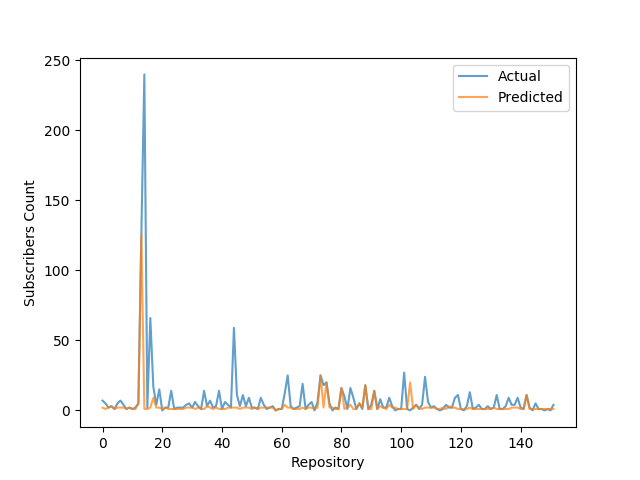
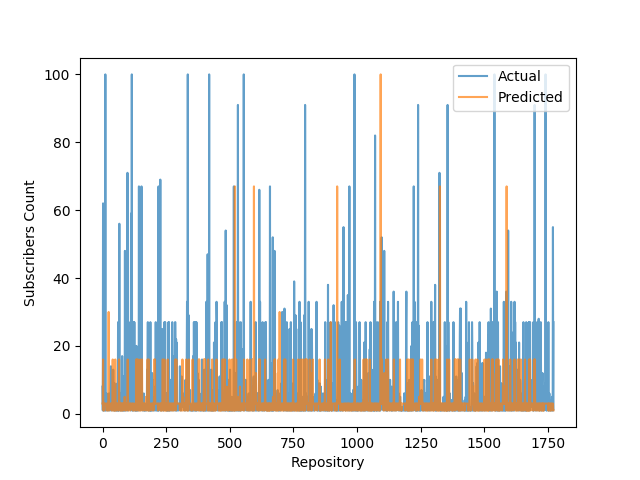
updated sql logic

diff --git a/log_regression.py b/log_regression.py
@@ -23,27 +23,33 @@ GIT_REPO_FIELDS = ['forks_count', 'stargazers_count', 'subscribers_count']
 # parse database rows/json into dictionaries,
 # TODO: add caching
 def get_dicts(cursor):
-    cursor.execute("SELECT `*` FROM `GetCommitStats` LIMIT 1000")
-    resultStat = cursor.fetchmany(1000)
+    sql = "SELECT repoUrl, repository, a.json as ajson, b.json as bjson, a.id\
+    FROM (SELECT * FROM GetRepository LIMIT 5000) a INNER JOIN (SELECT * FROM GetCommitStats LIMIT 5000) b\
+    ON b.repoUrl LIKE CONCAT('%', a.repository)\
+    WHERE b.json IS NOT NULL AND a.json IS NOT NULL\
+    LIMIT 10000"
+
+    cursor.execute(sql)
+    fetched = cursor.fetchmany(10000)
+    print len(fetched)
     statDict = {}
-    for r in resultStat:
-        d = json.loads(r['json'])[10]
-        statDict[r['repoUrl'].split('/')[-1]] = {key:d[key] for key in GIT_STAT_FIELDS if key in d}
+    for r in fetched:
+        da = json.loads(r['ajson'])
+        db = json.loads(r['bjson'])[10] if r and r['bjson'] else {}
+        astats = {key:da[key] for key in GIT_REPO_FIELDS if key in da}
+        bstats = {key:db[key] for key in GIT_STAT_FIELDS if key in db}
+        astats.update(bstats)
+        statDict[r['repoUrl']] = astats
 
-    cursor.execute("SELECT `*` FROM `GetRepository` LIMIT 1000")
-    resultRepo = cursor.fetchmany(1000)
-    repoDict = {}
-    for r in resultRepo:
-        d = json.loads(r['json'])
-        repoDict[r['repository']] = {key:d[key] for key in GIT_REPO_FIELDS if key in d}
+    print len(statDict)
 
-    return (statDict,repoDict)
+    return statDict
 
 # Create the training data/labels with respect to some field to predict
-def get_variables(y_var, statDict, repoDict):
+def get_variables(y_var, statDict):
     X, Y, Xv, Yv = [],[],[],[]
     for repo, fields in statDict.items()[:-100]:
-        if repo in repoDict:
+        if y_var in fields:
             row = []
             for i in GIT_STAT_FIELDS:
                 if i in fields:
@@ -51,9 +57,9 @@ def get_variables(y_var, statDict, repoDict):
                 else:
                     row += [0]
             X.append(row)
-            Y.append(repoDict[repo][y_var]) if y_var in repoDict[repo] else Y.append(0)
+            Y.append(min(100,fields[y_var]))
     for repo, fields in statDict.items()[-100:]:
-        if repo in repoDict:
+        if y_var in fields:
             row = []
             for i in GIT_STAT_FIELDS:
                 if i in fields:
@@ -61,19 +67,18 @@ def get_variables(y_var, statDict, repoDict):
                 else:
                     row += [0]
             Xv.append(row)
-            Yv.append(repoDict[repo][y_var]) if y_var in repoDict[repo] else Yv.append(0)
-    print(np.array(X).shape,np.array(Y).shape, np.array(Xv).shape, np.array(Yv).shape)
+            Yv.append(min(100,fields[y_var])) if y_var in fields else Yv.append(0)
     return (np.array(X),np.array(Y), np.array(Xv), np.array(Yv))
 
 if __name__ == "__main__":
     try:
         with connection.cursor() as cursor:
 
-            statDict,repoDict = get_dicts(cursor)
+            statDict = get_dicts(cursor)
 
-            X,Y,Xv,Yv = get_variables('stargazers_count', statDict, repoDict)
-
-            reg = linear_model.LogisticRegression(penalty='l2', C=5, intercept_scaling=1)
+            X,Y,Xv,Yv = get_variables('stargazers_count', statDict)
+            print X.shape,Y.shape, Xv.shape, Yv.shape
+            reg = linear_model.LogisticRegression(penalty='l2', C=10, intercept_scaling=1)
             reg.fit(X, np.ravel(Y))
             w,w_0 = reg.coef_, reg.intercept_
 
